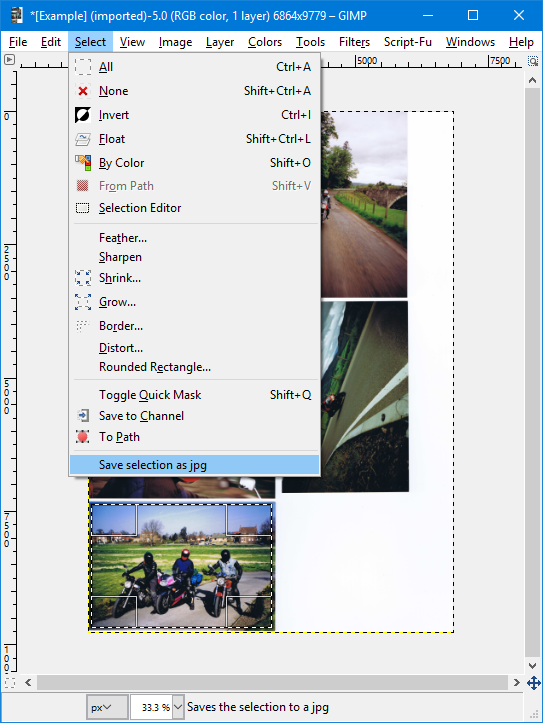
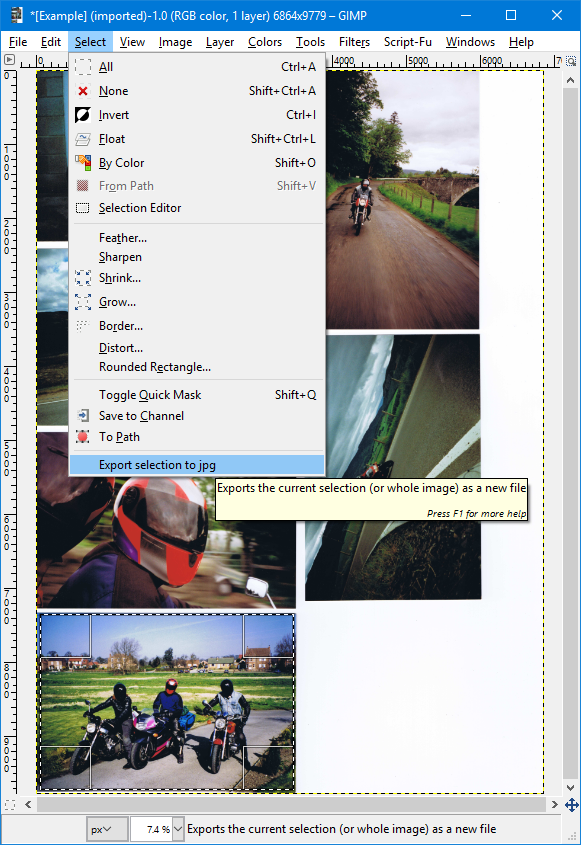
Rename menu item

diff --git a/export_selection_to_jpg.py b/export_selection_to_jpg.py
@@ -16,12 +16,12 @@ def python_export_selection_to_jpg(timg, tdrawable):
 
 register(
     "python_fu_export_selection_to_jpg",
-    "Saves the selection to a jpg",
-    "Saves the selection to a jpg",
+    "Exports the current selection (or whole image) as a new file",
+    "Exports the current selection (or whole image) as a new file.  The exported file name is based on the original image file name and the time the export occurred.",
     "Andy Joiner",
     "Andy Joiner",
     "2018",
-    "<Image>/Select/Save selection as jpg",
+    "<Image>/Select/Export selection to jpg",
     "RGB*, GRAY*",
     [],
     [],
